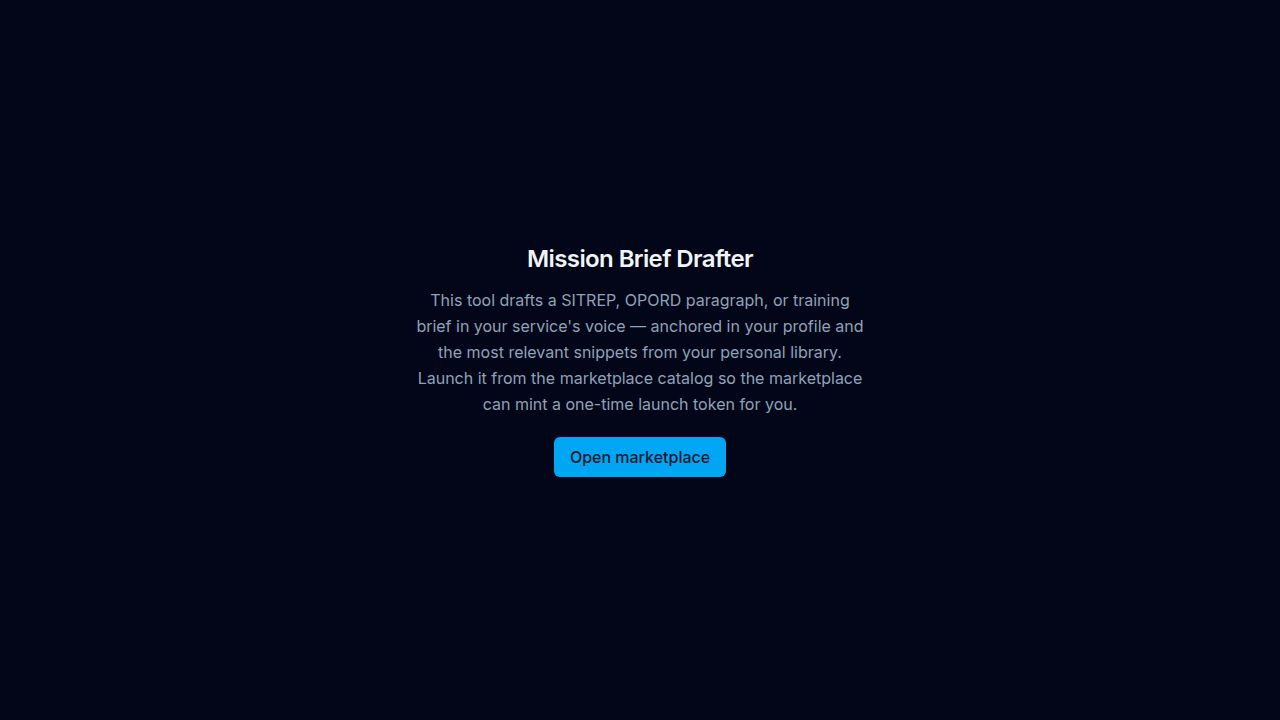
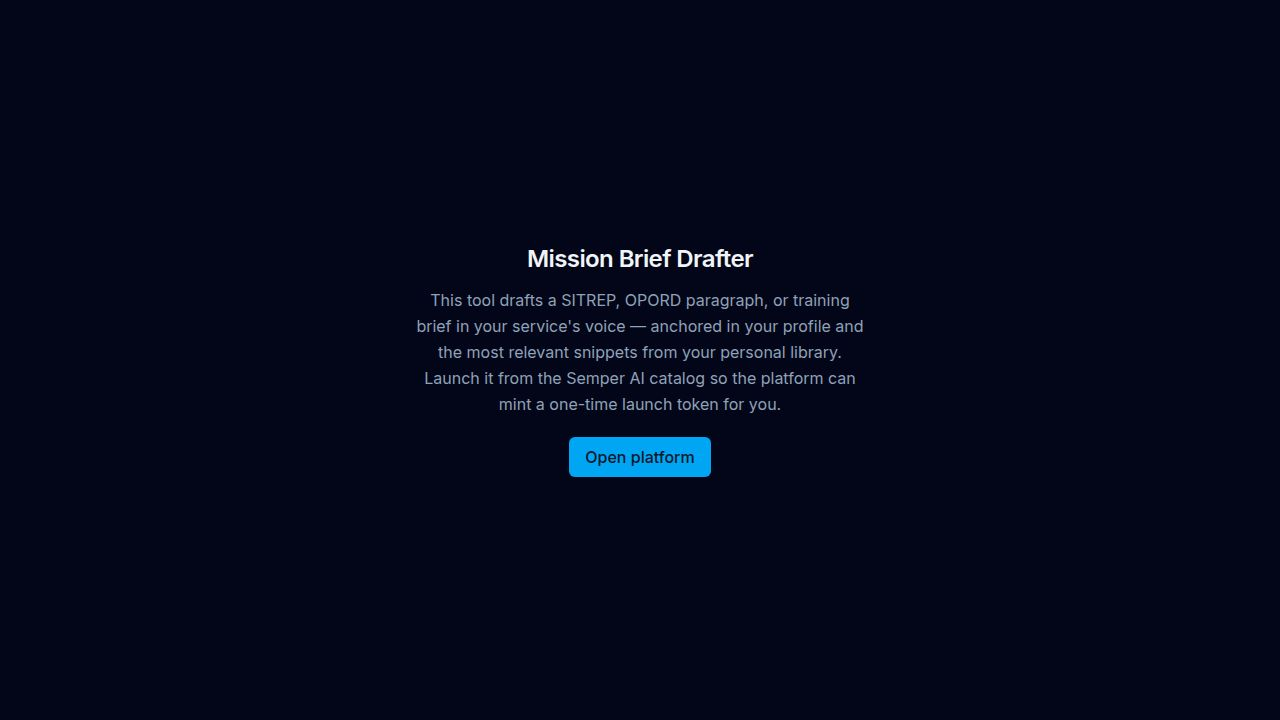
Merged changes from 8jja4pw4/main
Replit-Task-Id: b5137e26-43db-46cc-b445-314e8bb06361

Changed region(s): [[0.3125, 0.5194, 0.6875, 0.5806], [0.4062, 0.6111, 0.5938, 0.6722]]

diff --git a/README.md b/README.md
@@ -1,0 +1,184 @@
+# Semper AI
+
+Semper AI is a Department of War (DoW) AI Tool Marketplace MVP — a TradeWinds-style platform that lets service members securely launch authorized AI tools with their personal context (operator profile + RAG library) attached automatically via a one-time launch token.
+
+The goal is to make AI tools inside the DoW easy to discover, easy to launch, and **context-aware by default**, while keeping every launch auditable and every shared field under the operator's control.
+
+---
+
+## What's in the platform
+
+- **Marketplace storefront** — landing, dashboard, catalog, tool detail, profile, library, launches, and admin pages.
+- **Operator profile + Context Block** — persistent identity (branch, rank, MOS, duty title, …) and a 6-element task-dependent Context Block (who/what/when/where/risk/experience).
+- **Personal RAG library** — upload PDF / DOCX / MD / TXT documents; chunked, embedded with `Xenova/all-MiniLM-L6-v2` (384-dim, int8), stored in Postgres + `pgvector` with HNSW cosine.
+- **Smart Mission Context** — auto-ingestion of curated military doctrine based on branch / MOS / unit.
+- **Mission Context presets** — named profile snapshots scoped to specific library documents; one is "active" at a time.
+- **Pre-launch preview & redaction** — see exactly what profile fields and RAG snippets a tool would receive, redact anything you don't want to share, and (optionally) require an affirmation of the active preset + Context Block before each launch.
+- **One-time launch tokens** — tools receive a short-lived `launchToken` (5 min) that they exchange for the user's selected context plus a `sessionToken` (1 h) for follow-up RAG queries.
+- **Admin tool builder** — create / update tools, attach a GitHub source repo, AI-draft descriptions with Gemini, configure cloud or `local_install` hosting, upload installers.
+- **Auditability** — every launch records the active preset, Context Block version, affirmation timestamp, and the exact context payload that was shared.
+
+---
+
+## Repository layout
+
+This is a **pnpm workspace monorepo**. Code is split between **artifacts** (deployable apps) and **lib** (shared TypeScript packages).
+
+```
+artifacts/
+  api-server/          Express 5 + Drizzle ORM backend (auth, profiles, catalog,
+                       library, launches, admin, dashboard)
+  marketplace/         React + Vite frontend — the main Semper AI storefront
+  brief-drafter/       AI tool: drafts mission briefs with Claude
+                       (claude-sonnet-4-6) + profile-aware RAG
+  context-echo/        Demo tool that exchanges a launch token and renders the
+                       received context (useful for verifying the launch flow)
+  mission-chat/        AI chat tool that uses the user's profile + library
+  mockup-sandbox/      Design canvas / component preview Vite app
+
+lib/
+  api-spec/            OpenAPI source of truth
+  api-client-react/    Generated React Query client (Orval)
+  api-zod/             Generated Zod schemas
+  db/                  Drizzle schema, migrations, db client
+  integrations/        Shared integration helpers
+  integrations-anthropic-ai/   Anthropic (Claude) helper used by brief-drafter
+  integrations-gemini-ai/      Gemini helper used by api-server / admin draft
+  mil-data/            Curated military reference data for Smart Mission Context
+  replit-auth-web/     Replit OIDC auth helpers (used as @workspace/replit-auth-web)
+
+scripts/               Repo-level scripts (incl. post-merge.sh)
+```
+
+The full pnpm packages list lives in [`pnpm-workspace.yaml`](./pnpm-workspace.yaml).
+
+---
+
+## Tech stack
+
+| Layer            | Choice                                                                |
+| ---------------- | --------------------------------------------------------------------- |
+| Language         | TypeScript ~5.9                                                       |
+| Runtime          | Node.js 24                                                            |
+| Package manager  | pnpm (workspace)                                                      |
+| Backend          | Express 5                                                             |
+| ORM              | Drizzle ORM                                                           |
+| Database         | PostgreSQL with `pgvector`                                            |
+| Validation       | Zod (+ drizzle-zod)                                                   |
+| API codegen      | Orval (from `lib/api-spec` OpenAPI)                                   |
+| Bundler          | esbuild (api-server) / Vite 7 (frontends)                             |
+| Frontend         | React 19 + Vite + Tailwind 4                                          |
+| Embeddings       | `@xenova/transformers` — `Xenova/all-MiniLM-L6-v2` (384-dim, int8)    |
+| LLMs             | Gemini (`gemini-3-flash-preview`) and Claude (`claude-sonnet-4-6`)    |
+| Auth             | Replit OIDC via `@workspace/replit-auth-web`                          |
+| Object storage   | Replit App Storage (Google Cloud Storage)                             |
+| Tests            | Vitest (forked pool, `singleFork: true`) against a real Postgres      |
+
+---
+
+## Running the project
+
+This project is designed to run on Replit, which provisions Postgres, secrets, and the dev servers automatically. To run it elsewhere:
+
+### Prerequisites
+
+- Node.js 24
+- pnpm (any recent version)
+- A PostgreSQL database with the `pgvector` extension enabled
+- A `DATABASE_URL` pointing at that database
+
+### Install
+
+```bash
+pnpm install
+```
+
+### Apply the database schema
+
+```bash
+pnpm --filter @workspace/db run db:push
+```
+
+### Start an artifact
+
+Each artifact has a `dev` script. Examples:
+
+```bash
+pnpm --filter @workspace/api-server run dev      # backend API
+pnpm --filter @workspace/marketplace run dev     # main frontend
+pnpm --filter @workspace/brief-drafter run dev   # brief drafter tool
+pnpm --filter @workspace/context-echo  run dev   # context echo demo tool
+pnpm --filter @workspace/mission-chat  run dev   # mission chat tool
+pnpm --filter @workspace/mockup-sandbox run dev  # component preview
+```
+
+The Vite frontends bind to `0.0.0.0` and read the `PORT` environment variable so they work behind Replit's path-based preview proxy.
+
+### Build everything
+
+```bash
+pnpm run build         # typecheck + per-package builds
+pnpm run typecheck     # typecheck only
+pnpm test              # runs every package's test script
+```
+
+---
+
+## Environment / secrets
+
+The platform reads its configuration from environment variables. The most important ones:
+
+| Variable                          | Used by                | Purpose                                                        |
+| --------------------------------- | ---------------------- | -------------------------------------------------------------- |
+| `DATABASE_URL`                    | api-server, lib/db     | Postgres connection string (must have `pgvector` enabled)      |
+| `ADMIN_EMAILS`                    | api-server             | Comma-separated emails to auto-promote to admin on login       |
+| `SESSION_SECRET`                  | api-server             | Session signing                                                |
+| Replit OIDC env (auto-injected)   | replit-auth-web        | Provided by Replit when the artifact runs on Replit            |
+| Replit Connectors env (injected)  | api-server             | Used by `@replit/connectors-sdk` for GitHub + Gemini calls     |
+
+On Replit these are managed via the workspace secrets UI. Outside Replit, set them in your shell or a `.env` file your process manager loads.
+
+---
+
+## Authentication & roles
+
+- Login is **Replit OIDC** via `@workspace/replit-auth-web`.
+- The first user to sign in becomes an operator.
+- Anyone whose email is in `ADMIN_EMAILS` is promoted to admin on login.
+- Admins can toggle between `admin` and `operator` views in the UI; the toggle is presentation-only — server gates always check the real `isAdmin`.
+
+---
+
+## How a tool launch works
+
+1. User picks a tool in the marketplace.
+2. (Optional) the **launch preview** shows the candidate payload — profile fields, RAG snippets, and queries — based on the active preset.
+3. (If required) the user re-affirms the active preset + Context Block.
+4. User can redact specific profile fields and snippets.
+5. The platform mints a **`launchToken`** (5 min TTL) and a **`launchUrl`**, then redirects the user to the tool.
+6. The tool POSTs the `launchToken` back to the API in exchange for the selected context plus a longer-lived **`sessionToken`** (1 h) used for follow-up RAG queries.
+7. The launch is recorded (`launches` row) with `presetId`, `contextBlockVersion`, `affirmedAt`, and the exact context payload that was shared — visible to the user on `/launches`.
+
+The flow is implemented end-to-end in `artifacts/api-server` and demonstrated by `artifacts/context-echo`.
+
+---
+
+## Tests
+
+API-level tests live in `artifacts/api-server/src/__tests__/` and run with Vitest:
+
+```bash
+pnpm --filter @workspace/api-server test
+# or fan out across the whole repo
+pnpm test
+```
+
+The tests exercise the real Postgres pointed to by `DATABASE_URL` (no schema mocking; they create per-test users / tools with random IDs and clean up in `afterAll`). External integrations (GitHub, Gemini) are mocked at the module boundary with `vi.mock`. Vitest is configured with `pool: "forks"` and `singleFork: true` so DB-touching tests don't race each other.
+
+Auth in tests goes through `createTestUser`, which inserts a real `users` + `profiles` row, calls `createSession`, and returns an `Authorization: Bearer <sid>` header — exactly the wire path production uses.
+
+---
+
+## License
+
+MIT (see [`package.json`](./package.json)).
